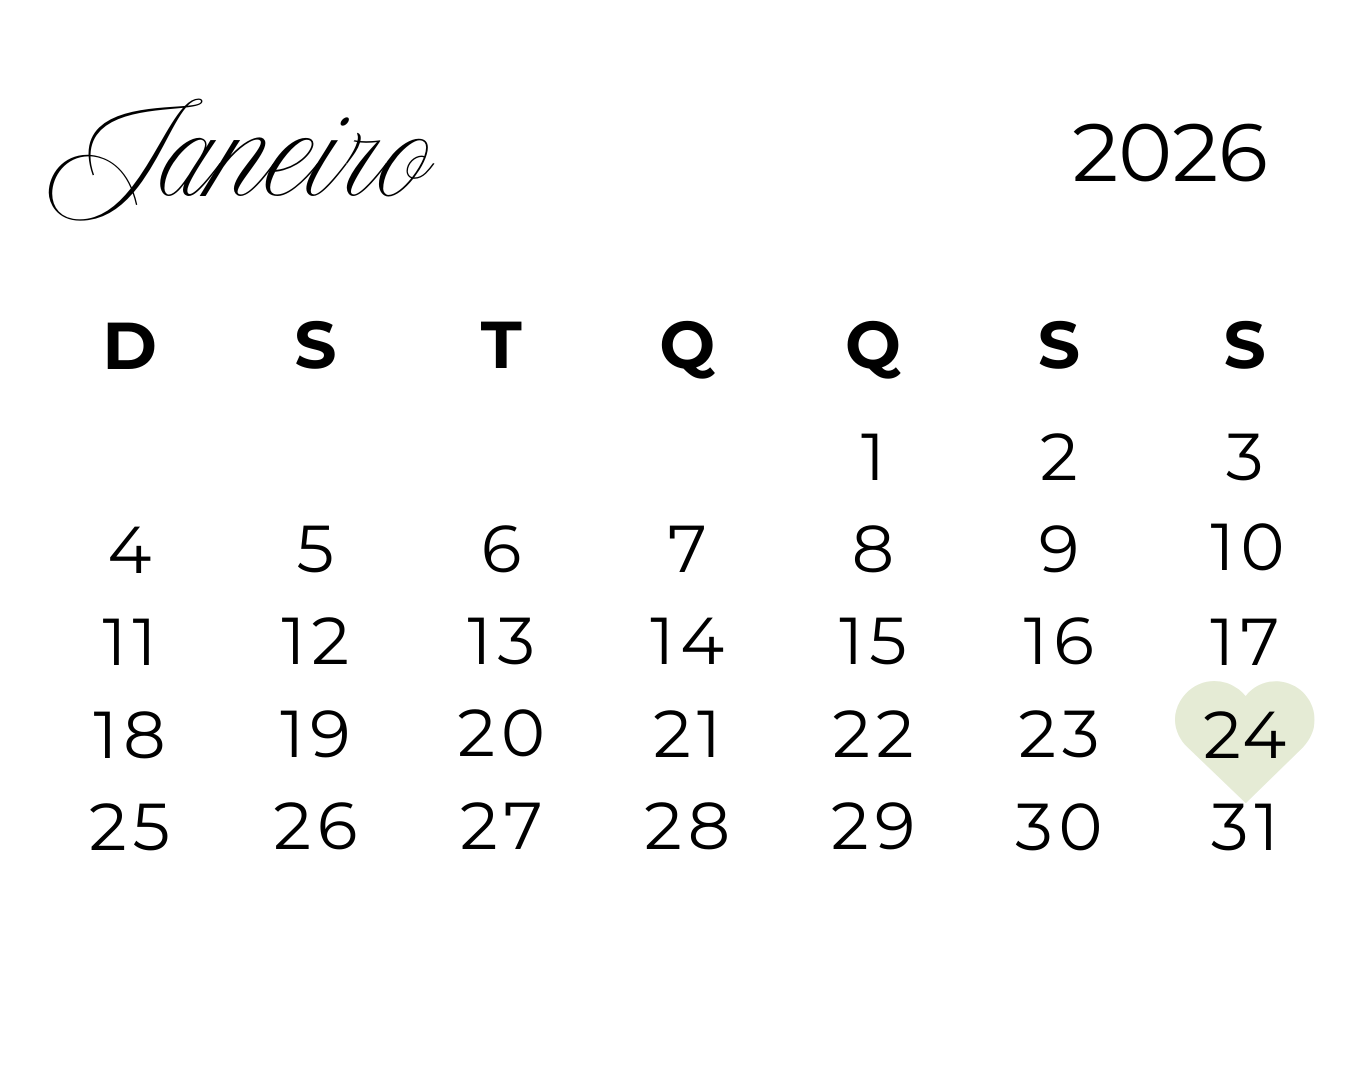
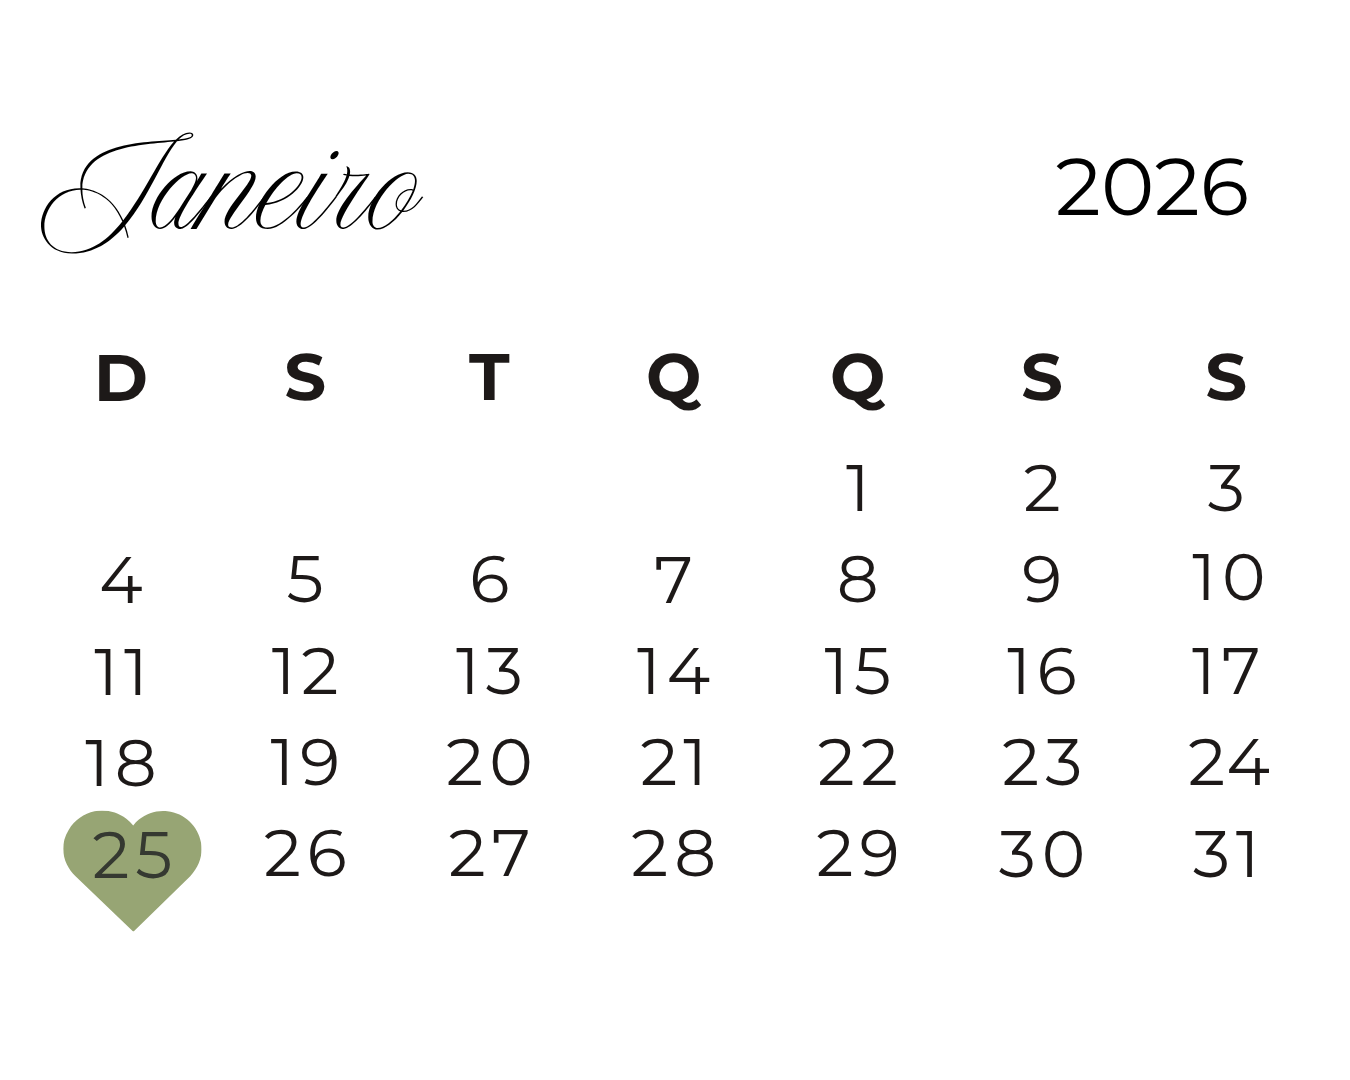
novo calendario

diff --git a/index.html b/index.html
@@ -23,6 +23,7 @@
       <ul class="nav-menu">
         <li><a href="#root">Início</a></li>
         <li><a href="#saveTheDateSection">Cerimônia & Recepção</a></li>
+        <li><a href="#confirmarPresencaSection">Confirmar Presença</a></li>
         <li><a href="#usSection">Nossa História</a></li>
         <li><a href="#giftSection">Presentes</a></li>
       </ul>
@@ -143,7 +144,7 @@
       </a>
 
     </div>
-    <div>
+    <div id="confirmarPresencaSection">
       <img src="Imagens/oliveira.png" style="max-width: 10%;">
       <p>Estamos cuidando de cada detalhe para que este casamento seja inesquecível e um verdadeiro culto ao Senhor.
         <br /> Para que tudo ocorra da melhor forma, contamos com a sua pontualidade <br />e a confirmação de sua presença
@@ -193,26 +194,30 @@
   </section>
 
   <section class="giftSection" id="giftSection">
+    <div class="espaco"></div>
     <div class="pix">
-      <p>Sua presença é o melhor <span>presente...</span></p>
-      <p class="gift_pix_text">...mas também aceitamos pix</p>
+      <!-- <p>Confira nossa...</span></p> -->
+      <p class="gift_pix_text">Lista de presentes</p>
 
-      <img src="Imagens/pix.png" alt="" style="max-width: 200px; margin: 0 auto; display: block;">
-      <p class="chave_pix_text">Chave PIX: 474.916.238-83</p>
-      <p class="chave_pix_text">Nome: Luana Rufino Diniz Ferraz</p>
-    </div>
-    <div class="lista-presentes">
       <p>O maior presente que poderíamos receber é a presença de cada um de vocês nesse dia tão especial</p>
-      <p>Mas para quem desejar nos abençoar de maneira material, deixamos algumas opções: vocês podem <b>contribuir via
+      <p>Mas para quem desejar nos abençoar, deixamos algumas opções: vocês podem <b>contribuir via
           Pix</b>, <b>escolher um presente em nossa lista online no Magazine Luiza</b> ou <b>entregar pessoalmente no
           dia do casamento</b>.</p>
-      <p>Cada gesto de carinho será recebido com gratidão e fará parte da nossa história, ajudando a tornar nosso lar
-        ainda mais cheio de amor e alegria.</p>
-      <a href="https://www.finalfeliz.de/luana-e-weryck" target="_blank" class="btn_gift">
-        Ver lista de Presentes
-      </a>
-    </div>
+      <!-- <p>Cada gesto de carinho será recebido com gratidão e fará parte da nossa história, ajudando a tornar nosso lar
+        ainda mais cheio de amor e alegria.</p> -->
 
+        <div style="display: flex; margin-top: 10px; align-items: center; justify-content: space-around;">
+          <div><img src="Imagens/pix.png" alt="" style="max-width: 200px; margin: 0 auto; display: block;">
+            <p class="chave_pix_text">Chave PIX: 474.916.238-83</p>
+            <p class="chave_pix_text">Nome: Luana Rufino Diniz Ferraz</p></div>
+          <div>
+            <a href="https://www.finalfeliz.de/luana-e-weryck" target="_blank" class="btn_gift">
+              Ver lista de Presentes
+            </a>
+          </div>
+        </div>
+    </div>
+    <div class="espaco"></div>
   </section>
 
   <footer>

diff --git a/style.css b/style.css
@@ -41,7 +41,7 @@ html {
 .layer-1 {
     position: absolute;
     will-change: transform;
-    top: 38%;
+    top: 30%;
 }
 
 .layer-2 {
@@ -407,23 +407,25 @@ html {
     animation: fadeIn 1.5s ease-out forwards;
 }
 .giftSection{
-    flex-direction: column;
-    padding: 3em 0;
+    display: flex;
+    /* flex-direction: column; */
+    /* padding: 3em 0; */
 }
 
 .giftSection .pix{
-    letter-spacing: 0.5px;
-    font-weight: 300;
-    font-size: 2rem;
-    text-align: left;
+    /* letter-spacing: 0.5px; */
+    /* font-weight: 300; */
+    /* font-size: 2rem;
+    text-align: left; */
     /* margin: 1em 3em; */
-    flex: 1;
+    flex: 3;
     align-self: center;
 }
 
 .giftSection .gift_pix_text{
     font-family: 'New Icon Script', sans-serif;
-    text-align: right;
+    text-align: center;
+    font-size: 2rem;
 }
 
 .chave_pix_text{
